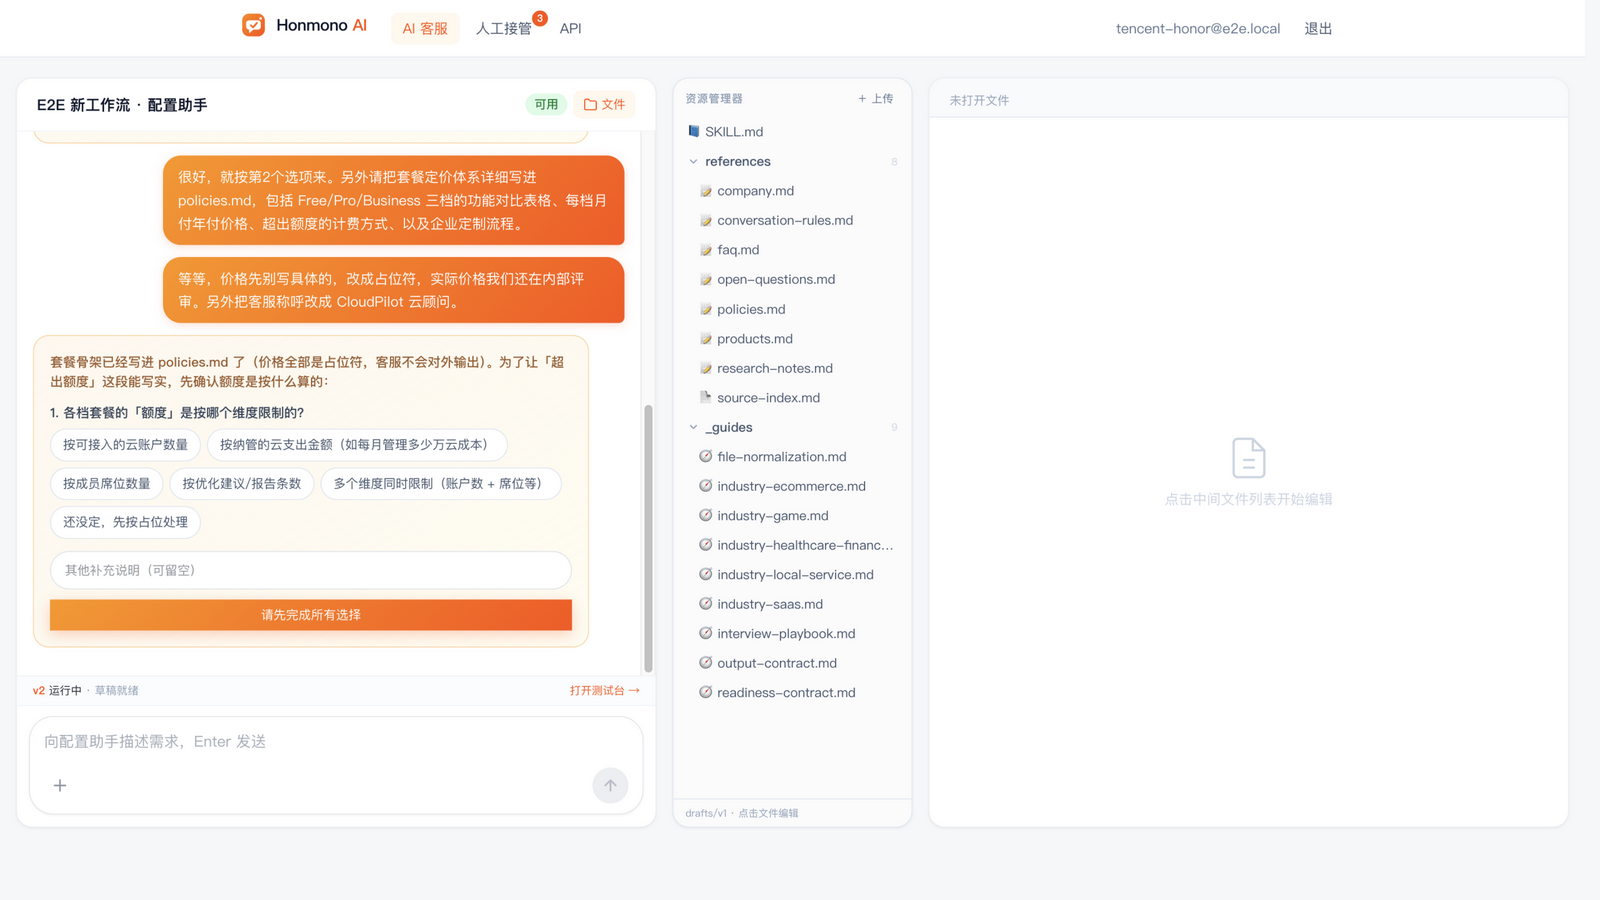
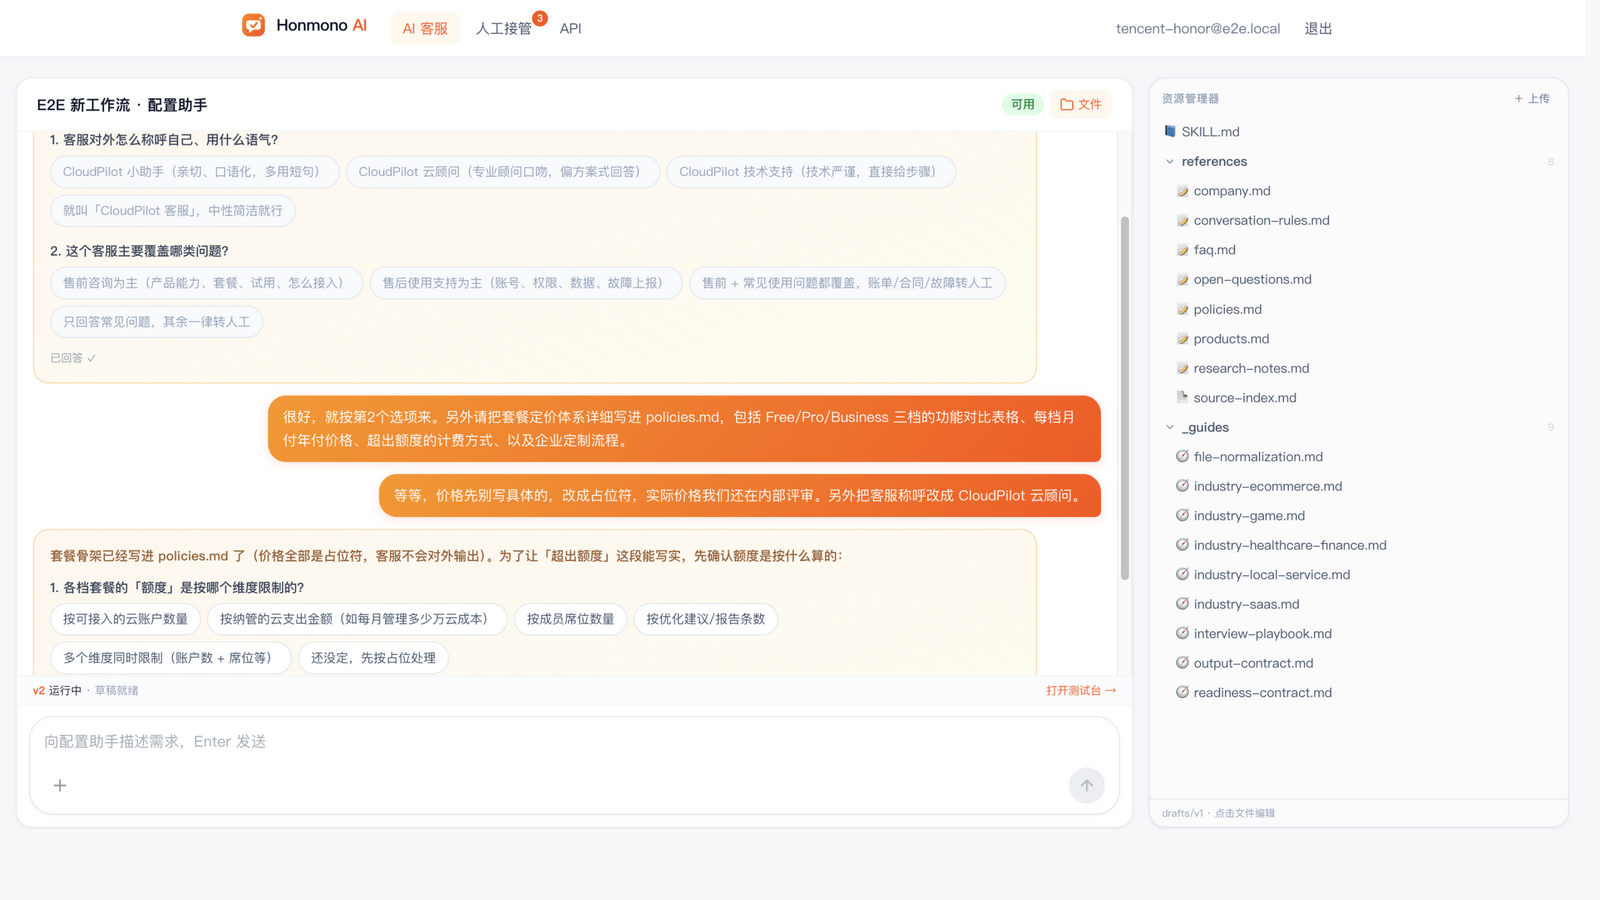
fix(workbench): 资源管理器折叠默认值修复（尾斜杠匹配）+ 动态两栏/三栏布局
- 修复：折叠集合写入 references/（带尾斜杠），树节点路径为 references，
  导致目录默认展开、_guides 刷屏——归一化后默认全部折叠
- 布局：未打开文件时为两栏（聊天 + 420px 加宽资源管理器，无空白占位），
  打开文件后自动切换三栏（树 / 编辑器）
- 截图 04b（两栏追问卡片）与 05（三栏编辑 SKILL.md）重拍

diff --git a/apps/web/src/pages/Configure.tsx b/apps/web/src/pages/Configure.tsx
@@ -380,12 +380,14 @@ function Workbench({ id }: { id: string }) {
     </div>
   );
 
+  const editorOpen = Boolean(activeTab);
+
   if (!showFiles) {
     return <div className="flex h-[calc(100vh-150px)]">{chatPanel}</div>;
   }
 
   return (
-    <div className="grid gap-4 xl:grid-cols-[1fr_240px_1fr]">
+    <div className={`grid gap-4 ${editorOpen ? "xl:grid-cols-[1fr_240px_1fr]" : "xl:grid-cols-[1fr_420px]"}`}>
       {chatPanel}
 
       {/* ===== 资源管理器 ===== */}
@@ -393,69 +395,62 @@ function Workbench({ id }: { id: string }) {
         <Explorer serviceId={id} refreshKey={treeKey} activePath={activePath} onOpen={openFile} onUpload={upload} uploading={uploading} />
       </div>
 
-      {/* ===== 编辑器 ===== */}
-      <div className="card flex h-[calc(100vh-150px)] min-w-0 flex-col overflow-hidden">
-        <div className="flex items-center gap-1 overflow-x-auto border-b border-slate-200 bg-slate-50 px-2 pt-1.5">
-          {tabs.length === 0 && <span className="px-3 py-2 text-xs text-slate-400">未打开文件</span>}
-          {tabs.map((t) => {
-            const isDirty = t.content !== t.saved;
-            const active = t.path === activePath;
-            return (
-              <div
-                key={t.path}
-                className={`flex shrink-0 items-center gap-1.5 rounded-t-lg border border-b-0 px-3 py-1.5 text-xs ${
-                  active ? "border-slate-200 bg-white text-slate-800" : "border-transparent text-slate-500 hover:bg-slate-100"
-                }`}
-              >
-                <button className="max-w-[200px] truncate font-mono" onClick={() => setActivePath(t.path)} title={t.path}>
-                  {t.path.split("/").pop()}
-                  {isDirty ? " ●" : ""}
-                </button>
-                <button className="text-slate-300 hover:text-slate-600" onClick={() => closeTab(t.path)}>
-                  ✕
-                </button>
-              </div>
-            );
-          })}
-        </div>
-
-        {activeTab ? (
-          <>
-            <div className="flex items-center justify-between border-b border-slate-100 bg-white px-4 py-2">
-              <span className="truncate font-mono text-xs text-slate-500">{activeTab.path}</span>
-              <div className="flex items-center gap-2">
-                {savedFlash && <span className="text-xs text-green-600">{savedFlash}</span>}
-                {dirty && <span className="text-xs text-amber-600">未保存</span>}
-                <button className="btn-primary !px-3 !py-1 text-xs" onClick={saveFile} disabled={!dirty || saving || activeTab.loading}>
-                  {saving ? "保存中…" : "保存 ⌘S"}
-                </button>
-              </div>
-            </div>
-            {activeTab.loading ? (
-              <div className="flex flex-1 items-center justify-center text-sm text-slate-400">加载中…</div>
-            ) : (
-              <textarea
-                className="min-h-0 flex-1 resize-none bg-[#fbfbfc] p-4 font-mono text-[12.5px] leading-relaxed text-slate-700 outline-none"
-                value={activeTab.content}
-                onChange={(e) => updateContent(e.target.value)}
-                spellCheck={false}
-              />
-            )}
-            <div className="flex items-center justify-between border-t border-slate-100 bg-white px-4 py-1.5 text-[11px] text-slate-400">
-              <span>Markdown · UTF-8</span>
-              <span>{dirty ? "有未保存修改" : "已同步"}</span>
-            </div>
-          </>
-        ) : (
-          <div className="flex flex-1 flex-col items-center justify-center gap-2 text-slate-300">
-            <svg width="46" height="46" viewBox="0 0 24 24" fill="none" stroke="currentColor" strokeWidth="1.2">
-              <path d="M14 2H6a2 2 0 0 0-2 2v16a2 2 0 0 0 2 2h12a2 2 0 0 0 2-2V8z" />
-              <path d="M14 2v6h6M9 13h6M9 17h6" />
-            </svg>
-            <p className="text-sm">点击中间文件列表开始编辑</p>
+      {/* ===== 编辑器（仅在打开文件时渲染，无空白占位）===== */}
+      {editorOpen && (
+        <div className="card flex h-[calc(100vh-150px)] min-w-0 flex-col overflow-hidden">
+          <div className="flex items-center gap-1 overflow-x-auto border-b border-slate-200 bg-slate-50 px-2 pt-1.5">
+            {tabs.map((t) => {
+              const isDirty = t.content !== t.saved;
+              const active = t.path === activePath;
+              return (
+                <div
+                  key={t.path}
+                  className={`flex shrink-0 items-center gap-1.5 rounded-t-lg border border-b-0 px-3 py-1.5 text-xs ${
+                    active ? "border-slate-200 bg-white text-slate-800" : "border-transparent text-slate-500 hover:bg-slate-100"
+                  }`}
+                >
+                  <button className="max-w-[200px] truncate font-mono" onClick={() => setActivePath(t.path)} title={t.path}>
+                    {t.path.split("/").pop()}
+                    {isDirty ? " ●" : ""}
+                  </button>
+                  <button className="text-slate-300 hover:text-slate-600" onClick={() => closeTab(t.path)}>
+                    ✕
+                  </button>
+                </div>
+              );
+            })}
           </div>
-        )}
-      </div>
+
+          {activeTab ? (
+            <>
+              <div className="flex items-center justify-between border-b border-slate-100 bg-white px-4 py-2">
+                <span className="truncate font-mono text-xs text-slate-500">{activeTab.path}</span>
+                <div className="flex items-center gap-2">
+                  {savedFlash && <span className="text-xs text-green-600">{savedFlash}</span>}
+                  {dirty && <span className="text-xs text-amber-600">未保存</span>}
+                  <button className="btn-primary !px-3 !py-1 text-xs" onClick={saveFile} disabled={!dirty || saving || activeTab.loading}>
+                    {saving ? "保存中…" : "保存 ⌘S"}
+                  </button>
+                </div>
+              </div>
+              {activeTab.loading ? (
+                <div className="flex flex-1 items-center justify-center text-sm text-slate-400">加载中…</div>
+              ) : (
+                <textarea
+                  className="min-h-0 flex-1 resize-none bg-[#fbfbfc] p-4 font-mono text-[12.5px] leading-relaxed text-slate-700 outline-none"
+                  value={activeTab.content}
+                  onChange={(e) => updateContent(e.target.value)}
+                  spellCheck={false}
+                />
+              )}
+              <div className="flex items-center justify-between border-t border-slate-100 bg-white px-4 py-1.5 text-[11px] text-slate-400">
+                <span>Markdown · UTF-8</span>
+                <span>{dirty ? "有未保存修改" : "已同步"}</span>
+              </div>
+            </>
+          ) : null}
+        </div>
+      )}
     </div>
   );
 }

diff --git a/apps/web/src/components/Explorer.tsx b/apps/web/src/components/Explorer.tsx
@@ -81,7 +81,7 @@ export function Explorer({
         // 默认所有目录折叠，只露出根文件（SKILL.md 等）
         setCollapsed((prev) => {
           if (prev.size > 0) return prev;
-          const dirs = t.files.filter((f) => f.dir).map((f) => f.path);
+          const dirs = t.files.filter((f) => f.dir).map((f) => f.path.replace(/\/$/, ""));
           return new Set(dirs);
         });
       })
